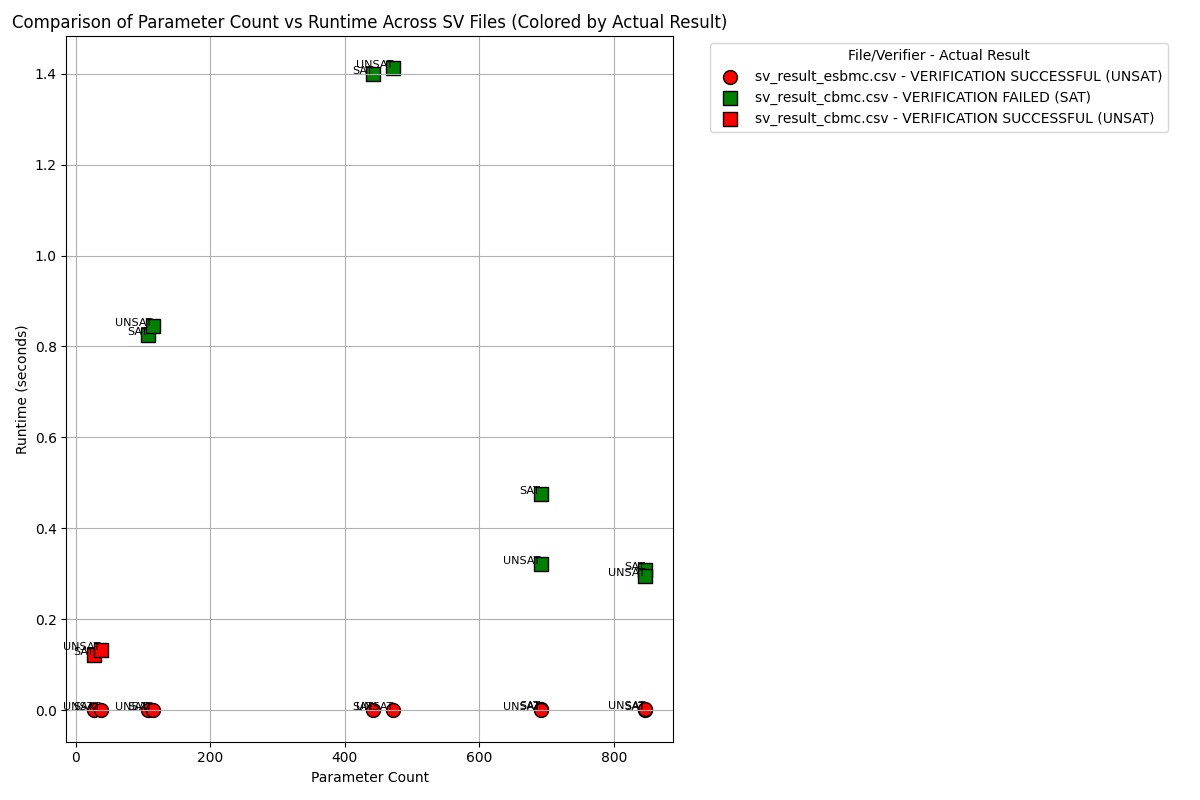
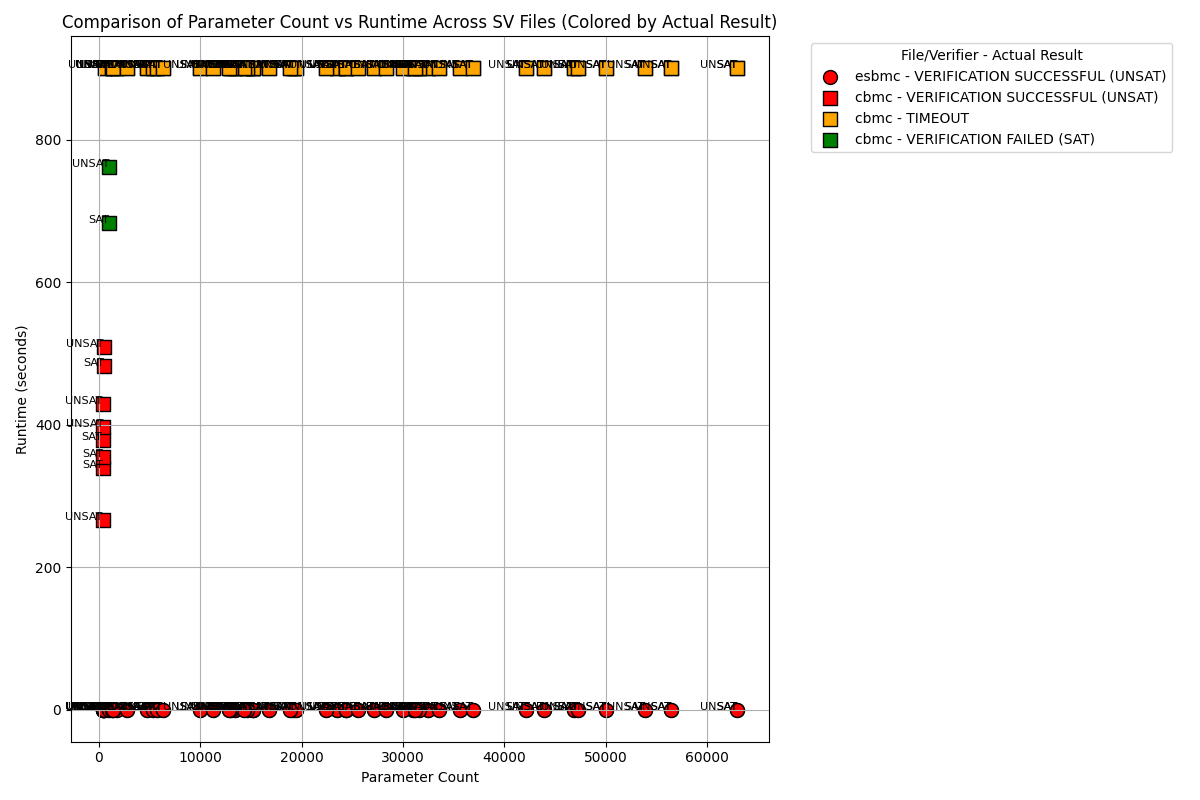
generated graphs

diff --git a/helpers/generate_graphs.py b/helpers/generate_graphs.py
@@ -43,6 +43,17 @@ def convert_runtime(runtime_str):
     except:
         return None
 
+def get_verifier_name(filename: str) -> str:
+    prefixes = ['vnn_result_', 'sv_result_', 'smt_result_']
+    for prefix in prefixes:
+        if filename.startswith(prefix):
+            name_with_extension = filename[len(prefix):]
+            # Remove file extension if present
+            name = name_with_extension.split('.')[0]
+            return name
+    return filename  # Fallback if no prefix matched
+
+
 def read_and_process_data(csv_files, verifier_type=None):
     # Read and process data from CSV files.
     data_dict = {}
@@ -82,12 +93,12 @@ def generate_individual_plots(data_dict, output_dir, verifier_type):
                     fontsize=8,
                     ha='right'
                 )
-        plt.title(f'Verifier Results: Parameter Count vs Runtime for {file_name}')
+        plt.title(f'Parameter Count vs Runtime for {get_verifier_name(file_name)}')
         plt.xlabel('Parameter Count')
         plt.ylabel('Runtime (seconds)')
         plt.legend(title='Actual Result')
         plt.grid(True)
-        output_file = output_dir / f"{verifier_type}_{file_name}_plot.png"
+        output_file = output_dir / f"{verifier_type}_{get_verifier_name(file_name)}_plot.png"
         plt.savefig(output_file)
         plt.close()
         print(f"Saved individual plot to {output_file}")
@@ -104,7 +115,7 @@ def generate_comparison_plot(data_dict, output_dir, verifier_type):
                 subset['Parameter Count'],
                 subset['RuntimeSeconds'],
                 c=subset['Color'].iloc[0],
-                label=f'{file_name} - {result}',
+                label=f'{get_verifier_name(file_name)} - {result}',
                 marker=marker,
                 edgecolors='black',
                 s=100
@@ -130,6 +141,7 @@ def generate_comparison_plot(data_dict, output_dir, verifier_type):
     plt.close()
     print(f"Saved comparison plot to {output_file}")
 
+    
 def plot_expected_results(data_dict, output_dir, verifier_type, expected_result):
     # Plot graphs for expected SAT or expected UNSAT
     for file_name, df in data_dict.items():
@@ -148,14 +160,12 @@ def plot_expected_results(data_dict, output_dir, verifier_type, expected_result)
                 edgecolors='black',
                 s=100
             )
-            for i, row in s.iterrows():
-                plt.text(row['Parameter Count'], row['RuntimeSeconds'], row['Actual Result'], fontsize=8, ha='right')
         plt.title(f'{verifier_type.upper()} - Expected {expected_result} Results with Actual Results')
         plt.xlabel('Parameter Count')
         plt.ylabel('Runtime (seconds)')
         plt.legend(title='Actual Result')
         plt.grid(True)
-        output_file = output_dir / f"{verifier_type}_{file_name}_expected_{expected_result.lower()}_plot.png"
+        output_file = output_dir / f"{verifier_type}_{get_verifier_name(file_name)}_expected_{expected_result.lower()}_plot.png"
         plt.savefig(output_file)
         plt.close()
         print(f"Saved expected {expected_result} plot to {output_file}")
@@ -214,12 +224,12 @@ def plot_runtime_increase(data_dict, output_dir, verifier_type):
             plt.plot(x, y, 'o', label='Original Data')  # Original points
             plt.plot(x_smooth, y_smooth, '-', label='Smoothed Curve')  # Smoothed line
         
-        plt.title(f'{verifier_type.upper()} - Cumulative Runtime Increase per Instance Index - {file_name}')
+        plt.title(f'{verifier_type.upper()} - Cumulative Runtime Increase per Instance Index - {get_verifier_name(file_name)}')
         plt.xlabel('Instance Index (Sorted by Parameter Count)')
         plt.ylabel('Cumulative Runtime (seconds)')
         plt.legend()
         plt.grid(True)
-        output_file = output_dir / f'{verifier_type}_{file_name}_runtime_increase.png'
+        output_file = output_dir / f'{verifier_type}_{get_verifier_name(file_name)}_runtime_increase.png'
         plt.savefig(output_file)
         plt.close()
         print(f"Saved cumulative runtime increase plot to {output_file}")
@@ -282,7 +292,7 @@ def plot_combined_results(output_dir):
     plt.legend(title='Verifier', bbox_to_anchor=(1.05, 1), loc='upper left')
     plt.grid(True)
     plt.tight_layout()
-    output_file = output_dir / 'all_verifiers_combined_cumulative_plot.png'
+    output_file = output_dir / 'combined_cumulative_plot.png'
     plt.savefig(output_file)
     plt.close()
     print(f"Saved combined cumulative plot to {output_file}")
